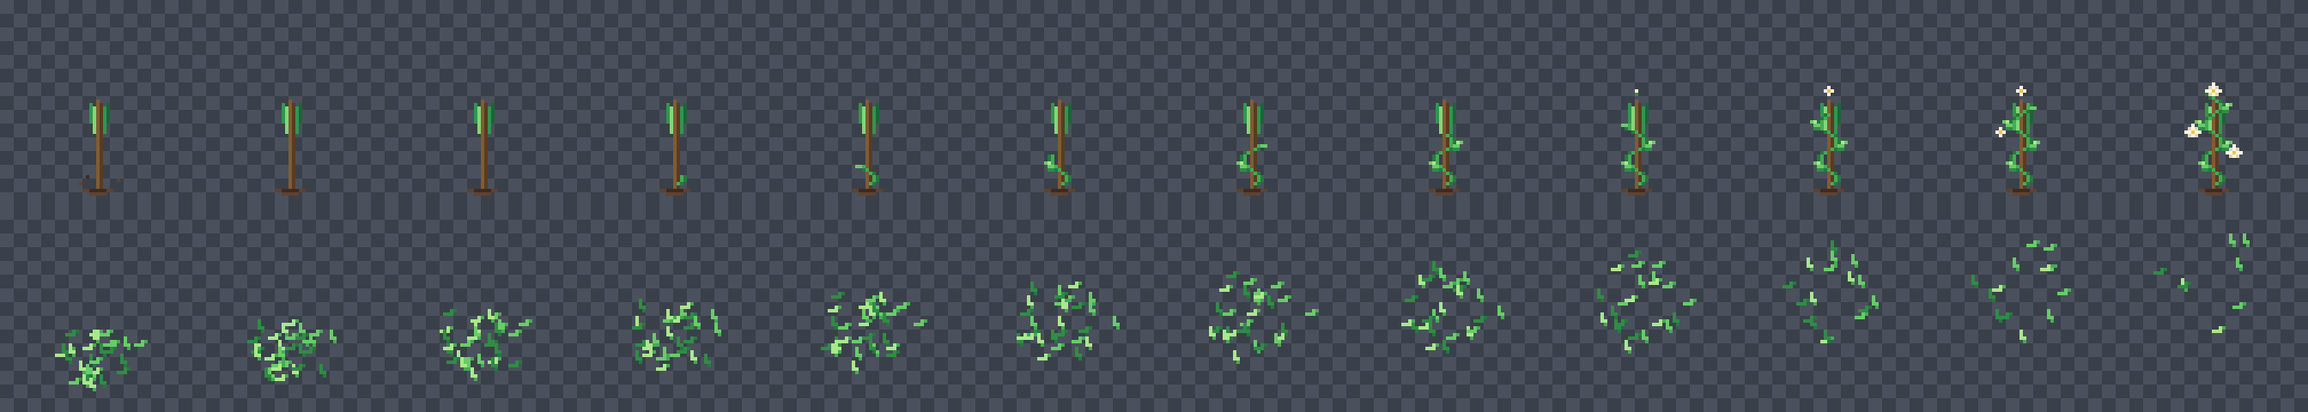
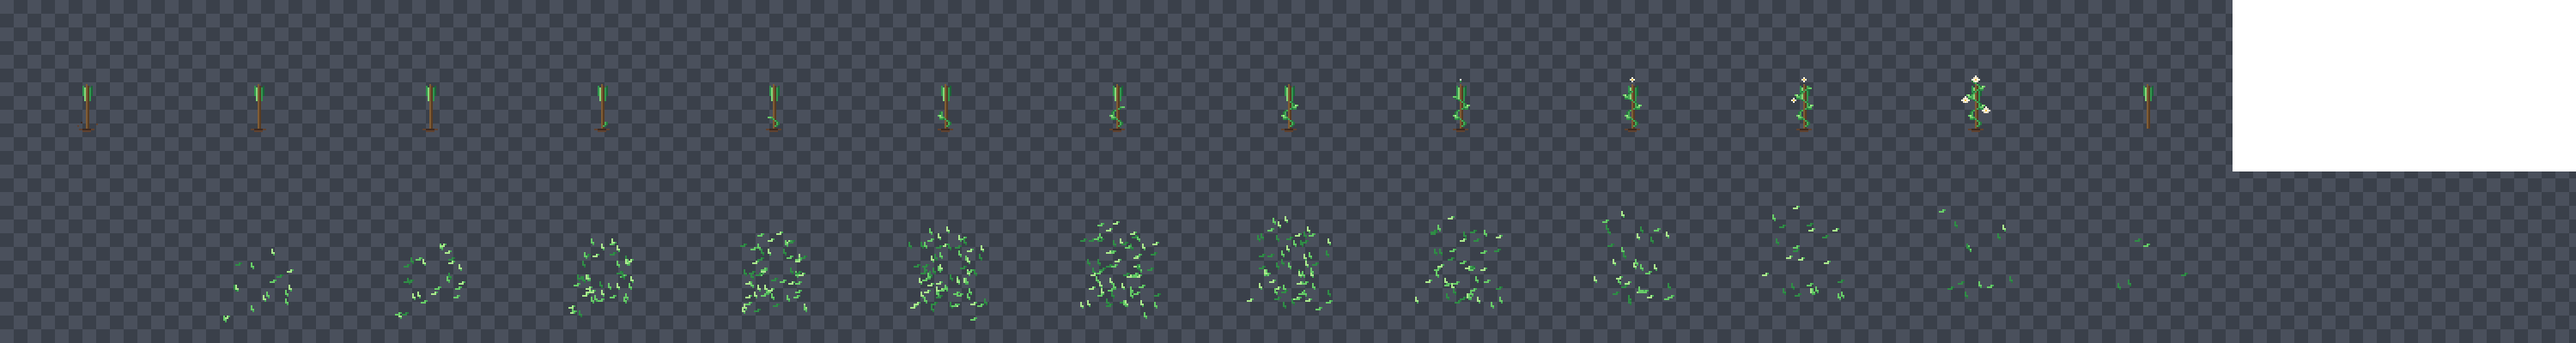
Mercy: the camera latches the boss's spot (his hitbox jumps when his animation changes) and smooths the player's; Leaf Ranger: the arrow is drawn and tossed in with a sound instead of appearing, and he dissolves into a cloud of leaves that is removed afterwards; tests

diff --git a/tools/fx/ranger_sprout.js b/tools/fx/ranger_sprout.js
@@ -1,9 +1,12 @@
-// The Leaf Ranger's mercy (tools/mercy/mercy.js, ranger()): he kneels, plants his last arrow in the ground and it flowers; then he is
-// gone in a drift of leaves. Two small objects, drawn in code in pixel art (each art pixel is PX screen pixels: the Ranger's own sprite
-// is drawn at 2x, so PX 2 keeps the pixels the same size as his):
-//   Ranger_Sprout (animation Grow, 12 frames): the arrow stands in the ground, a vine winds up the shaft with leaves, and it ends in
-//                 a cream blossom with a gold heart and two small ones. Origin: the ground line, middle. Not looping (holds its last frame).
-//   Ranger_Leaves (animation Drift, 12 frames): a handful of green leaves rise and sway away. Origin: the picture centre.
+// The Leaf Ranger's mercy (tools/mercy/mercy.js, ranger()): he kneels, tosses his last arrow into the ground in front of him and it
+// flowers; then he dissolves into a cloud of leaves. Two small objects, drawn in code in pixel art (each art pixel is PX screen pixels:
+// the Ranger's own sprite is drawn at 2x, so PX 2 keeps the pixels the same size as his):
+//   Ranger_Sprout  animation Grow (12 frames): the arrow stands in the ground, a vine winds up the shaft with leaves, and it ends in a
+//                  cream blossom with a gold heart and two small ones. Not looping (holds its last frame).
+//                  animation Fly (1 frame): the same arrow with no soil, tip down, for the toss.
+//                  Origin: the arrow's tip at the ground line, middle.
+//   Ranger_Leaves  animation Drift (15 frames): about 70 leaves appear over his body, over half a second, and rise and sway away; the last
+//                  frame is empty. Origin: the middle of the ground line under him.
 //
 //   node tools/fx/ranger_sprout.js --preview   writes docs/previews/ranger_sprout.png and ranger_sprout.gif (nothing else is touched)
 //   node tools/fx/ranger_sprout.js --install   writes assets/Leaf_Ranger/mercy/*.png and registers both objects in the Leaf Ranger
@@ -13,7 +16,7 @@ const path = require("path");
 const png = require("../bosses/png.js");
 const ROOT = path.join(__dirname, "..", "..");
 
-const PX = 2, DT = 0.1, FRAMES = 12;
+const PX = 2, DT = 0.1, FRAMES = 12, LFRAMES = 15;
 const C = {
   shaft: [128, 92, 52], shaftD: [88, 60, 34], fl: [48, 150, 78], flL: [132, 214, 120], flD: [28, 100, 56],
   stem: [70, 170, 86], stemD: [38, 120, 62], leaf: [104, 204, 104], leafD: [48, 140, 70], leafL: [170, 232, 140],
@@ -30,23 +33,26 @@ function toImage(cv) {
 
 // ---- The sprout: art canvas 36 x 60, the ground line at row GY, the shaft at column MX ----
 const SW = 36, SH = 60, GY = 54, MX = 18, TOP = 30;                 // the shaft stands from the ground (GY) up to TOP
-function sprout(n) {
+function sprout(n, fly) {
   const cv = canvas(SW, SH);
-  // The soil: a small dark crack and a few crumbs around the shaft.
-  for (let x = MX - 4; x <= MX + 4; x++) put(cv, x, GY + 1, Math.abs(x - MX) > 2 ? C.soil : C.soilD);
-  for (let x = MX - 2; x <= MX + 2; x++) put(cv, x, GY + 2, C.soil);
-  if (n === 0) { put(cv, MX - 5, GY - 1, C.soil); put(cv, MX + 6, GY - 2, C.soil); put(cv, MX - 3, GY - 3, C.soilD); }
+  if (!fly) {
+    // The soil: a small dark crack and a few crumbs around the shaft.
+    for (let x = MX - 4; x <= MX + 4; x++) put(cv, x, GY + 1, Math.abs(x - MX) > 2 ? C.soil : C.soilD);
+    for (let x = MX - 2; x <= MX + 2; x++) put(cv, x, GY + 2, C.soil);
+    if (n === 0) { put(cv, MX - 5, GY - 1, C.soil); put(cv, MX + 6, GY - 2, C.soil); put(cv, MX - 3, GY - 3, C.soilD); }
+  }
   // The arrow: a brown shaft with a two-tone edge, and green fletching at the top.
   for (let y = TOP; y <= GY; y++) { put(cv, MX, y, C.shaft); put(cv, MX + 1, y, C.shaftD); }
   for (let i = 0; i < 8; i++) { const y = TOP + i, w = i < 6 ? 2 : 1; for (let k = 1; k <= w; k++) { put(cv, MX - k, y - (k > 1 ? 1 : 0) + 1, k === 1 ? C.flL : C.fl); put(cv, MX + 1 + k, y - (k > 1 ? 1 : 0) + 1, k === 1 ? C.fl : C.flD); } }
   put(cv, MX, TOP - 1, C.shaft);
+  if (fly) return cv;
   // The growth: g goes 0 to 1 over frames 3 to 11. A vine winds up the shaft; leaves open where it passes; flowers last.
   const g = Math.max(0, Math.min(1, (n - 2) / (FRAMES - 3)));
   if (g > 0) {
     const reach = (GY - 1) - (GY - TOP + 2) * g;                      // the vine's tip, row
     for (let y = GY - 1; y >= reach; y--) { const x = MX + Math.round(Math.sin((GY - y) * 0.6) * 2.2); put(cv, x, y, C.stem); put(cv, x + (x > MX ? 1 : -1), y, C.stemD); }
     const LEAVES = [[48, -1], [42, 1], [36, -1], [31, 1]];
-    LEAVES.forEach(([ly, dir], i) => { if (reach > ly) return; const lx = MX + Math.round(Math.sin((GY - ly) * 0.6) * 2.2), k = Math.min(1, (ly - reach) / 3);
+    LEAVES.forEach(([ly, dir]) => { if (reach > ly) return; const lx = MX + Math.round(Math.sin((GY - ly) * 0.6) * 2.2), k = Math.min(1, (ly - reach) / 3);
       put(cv, lx + dir, ly, C.leaf); put(cv, lx + 2 * dir, ly, C.leaf); if (k > 0.4) { put(cv, lx + 2 * dir, ly - 1, C.leafL); put(cv, lx + 3 * dir, ly - 1, C.leaf); put(cv, lx + dir, ly + 1, C.leafD); put(cv, lx + 2 * dir, ly + 1, C.leafD); } });
   }
   // Flowers: a bud, then the blossom (five petals round a gold heart); two small blossoms lower down.
@@ -64,17 +70,21 @@ function sprout(n) {
   return cv;
 }
 
-// ---- The leaves: art canvas 56 x 56, they start at the middle low and rise and sway away ----
-const LW = 56, LH = 56;
+// ---- The leaves: art canvas 96 x 100, the ground line (and the middle under him) at row 88, column 48. The Ranger is about 44 art
+// pixels tall and 40 wide, so the leaves start spread over a body-sized box and rise and sway away from it. ----
+const LW = 96, LH = 100, LGY = 88;
 function rng(seed) { let s = seed >>> 0; return () => { s = (s * 1664525 + 1013904223) >>> 0; return s / 4294967296; }; }
-const LEAVES = (() => { const r = rng(7); return Array.from({ length: 30 }, (_, i) => ({ x0: 28 + (r() - 0.5) * 20, y0: 42 + (r() - 0.5) * 16, vx: (r() - 0.5) * 16, vy: -(7 + r() * 14), sw: 2 + r() * 3, ph: r() * 6.28, life: 0.5 + r() * 0.6, tone: i % 3 })); })();
+const LEAVES = (() => {
+  const r = rng(7);
+  return Array.from({ length: 70 }, (_, i) => ({ x0: 48 + (r() - 0.5) * 40, y0: LGY - 2 - r() * 44, ts: r() * 0.5, life: 0.45 + r() * 0.4, vx: (r() - 0.5) * 24 + 3, vy: -(5 + r() * 20), sw: 2 + r() * 3.5, ph: r() * 6.28, tone: i % 3 }));
+})();
 function drift(n) {
   const cv = canvas(LW, LH), t = n * DT;
   for (const l of LEAVES) {
-    if (t > l.life * FRAMES * DT * 0.95) continue;
-    const x = l.x0 + l.vx * t + Math.sin(l.ph + t * 5) * l.sw, y = l.y0 + l.vy * t * 1.4;
+    const tau = t - l.ts; if (tau < 0 || tau >= l.life) continue;
+    const x = l.x0 + l.vx * tau + Math.sin(l.ph + tau * 5) * l.sw, y = l.y0 + l.vy * tau * 1.3;
     const body = l.tone === 0 ? C.leaf : l.tone === 1 ? C.leafD : C.leafL, edge = l.tone === 1 ? C.stemD : C.stem, flip = (n + Math.round(l.ph)) % 2;
-    // a small leaf: three pixels and a tip, turning between two poses as it tumbles
+    // a small leaf: four pixels and a tip, turning between two poses as it tumbles
     if (flip) { put(cv, x - 1, y, body); put(cv, x, y, body); put(cv, x + 1, y, body); put(cv, x + 1, y - 1, body); put(cv, x + 2, y - 1, edge); }
     else { put(cv, x, y - 1, body); put(cv, x, y, body); put(cv, x, y + 1, body); put(cv, x + 1, y + 1, body); put(cv, x + 1, y + 2, edge); }
   }
@@ -82,27 +92,26 @@ function drift(n) {
 }
 
 const sproutFrames = () => Array.from({ length: FRAMES }, (_, n) => toImage(sprout(n)));
-const driftFrames = () => Array.from({ length: FRAMES }, (_, n) => toImage(drift(n)));
-const SPROUT = { w: SW * PX, h: SH * PX, origin: [SW * PX / 2, (GY + 1) * PX] }, LEAF = { w: LW * PX, h: LH * PX, origin: [LW * PX / 2, LH * PX / 2] };
-module.exports = { FRAMES, DT, PX, sproutFrames, driftFrames, SPROUT, LEAF };
+const flyFrame = () => toImage(sprout(0, true));
+const driftFrames = () => Array.from({ length: LFRAMES }, (_, n) => toImage(drift(n)));
+const SPROUT = { w: SW * PX, h: SH * PX, origin: [SW * PX / 2, (GY + 1) * PX] }, LEAF = { w: LW * PX, h: LH * PX, origin: [LW * PX / 2, (LGY + 1) * PX] };
+module.exports = { FRAMES, LFRAMES, DT, PX, sproutFrames, flyFrame, driftFrames, SPROUT, LEAF };
 
 if (require.main === module && process.argv[2] === "--preview") {
   const dir = path.join(ROOT, "docs", "previews"); fs.mkdirSync(dir, { recursive: true });
   const bg = (x, y) => (((x >> 4) + (y >> 4)) % 2 ? [58, 64, 74] : [74, 80, 92]);
-  const all = sproutFrames().map(f => ({ f, W: SPROUT.w, H: SPROUT.h })).concat(driftFrames().map(f => ({ f, W: LEAF.w, H: LEAF.h })));
-  const cw = 112, ch = 120, S = 2, cols = FRAMES, sheet = { w: cols * cw * S / 2 * 2, h: 2 * ch * S, data: Buffer.alloc(cols * cw * S * 2 * ch * S * 4) };
-  all.forEach((a, k) => { const row = Math.floor(k / cols), col = k % cols; const ox = col * cw * S, oy = row * ch * S;
-    for (let y = 0; y < ch * S; y++) for (let x = 0; x < cw * S; x++) { const sx = Math.floor(x / S) - Math.floor((cw - a.W) / 2), sy = Math.floor(y / S) - Math.floor((ch - a.H) / 2); let c = bg(x, y);
-      if (sx >= 0 && sy >= 0 && sx < a.W && sy < a.H) { const p = (sy * a.W + sx) * 4; if (a.f.data[p + 3]) c = [a.f.data[p], a.f.data[p + 1], a.f.data[p + 2]]; }
-      const q = ((oy + y) * sheet.w + ox + x) * 4; sheet.data[q] = c[0]; sheet.data[q + 1] = c[1]; sheet.data[q + 2] = c[2]; sheet.data[q + 3] = 255; } });
+  const cell = 200, S = 1;
+  const rows = [sproutFrames().concat([flyFrame()]).map(f => ({ f, W: SPROUT.w, H: SPROUT.h })), driftFrames().map(f => ({ f, W: LEAF.w, H: LEAF.h }))];
+  const cols = Math.max(rows[0].length, rows[1].length), sheet = { w: cols * cell * S, h: 2 * cell * S, data: Buffer.alloc(cols * cell * S * 2 * cell * S * 4) };
+  const paint = (img, a, ox, oy, scale) => { for (let y = 0; y < cell * scale; y++) for (let x = 0; x < cell * scale; x++) {
+    const sx = Math.floor(x / scale) - Math.floor((cell - a.W) / 2), sy = Math.floor(y / scale) - Math.floor((cell - a.H) / 2); let c = bg(x + ox, y + oy);
+    if (sx >= 0 && sy >= 0 && sx < a.W && sy < a.H) { const p = (sy * a.W + sx) * 4; if (a.f.data[p + 3]) c = [a.f.data[p], a.f.data[p + 1], a.f.data[p + 2]]; }
+    const q = ((oy + y) * img.w + ox + x) * 4; img.data[q] = c[0]; img.data[q + 1] = c[1]; img.data[q + 2] = c[2]; img.data[q + 3] = 255; } };
+  rows.forEach((row, r) => row.forEach((a, k) => paint(sheet, a, k * cell * S, r * cell * S, S)));
   png.encode(sheet, path.join(dir, "ranger_sprout.png"));
-  const gif = require("./gif.js"), G = 3, GW = 112 * G, GH = 120 * G, frames = [];
-  for (let k = 0; k < FRAMES * 2; k++) { const a = all[k % FRAMES]; const b = all[FRAMES + (k % FRAMES)]; const img = { w: GW * 2, h: GH, data: Buffer.alloc(GW * 2 * GH * 4) };
-    for (const [part, off] of [[a, 0], [b, GW]]) for (let y = 0; y < GH; y++) for (let x = 0; x < GW; x++) { const sx = Math.floor(x / G) - Math.floor((112 - part.W) / 2), sy = Math.floor(y / G) - Math.floor((120 - part.H) / 2); let c = bg(x + off, y);
-      if (sx >= 0 && sy >= 0 && sx < part.W && sy < part.H) { const p = (sy * part.W + sx) * 4; if (part.f.data[p + 3]) c = [part.f.data[p], part.f.data[p + 1], part.f.data[p + 2]]; }
-      const q = (y * img.w + off + x) * 4; img.data[q] = c[0]; img.data[q + 1] = c[1]; img.data[q + 2] = c[2]; img.data[q + 3] = 255; }
-    frames.push(img); }
-  fs.writeFileSync(path.join(dir, "ranger_sprout.gif"), gif.encode(frames, frames.map((_, i) => (i % FRAMES === FRAMES - 1 ? 40 : 10))));
+  const gif = require("./gif.js"), G = 2, frames = [];
+  for (let k = 0; k < LFRAMES; k++) { const img = { w: cell * G * 2, h: cell * G, data: Buffer.alloc(cell * G * 2 * cell * G * 4) }; paint(img, rows[0][Math.min(k, FRAMES - 1)], 0, 0, G); paint(img, rows[1][k], cell * G, 0, G); frames.push(img); }
+  fs.writeFileSync(path.join(dir, "ranger_sprout.gif"), gif.encode(frames, frames.map((_, i) => (i === LFRAMES - 1 ? 40 : 10))));
   console.log("wrote docs/previews/ranger_sprout.png and ranger_sprout.gif");
 }
 
@@ -110,15 +119,15 @@ if (require.main === module && process.argv[2] === "--install") {
   const L = require("../bosses/lib.js"), dir = "assets/Leaf_Ranger/mercy";
   fs.mkdirSync(path.join(ROOT, dir), { recursive: true });
   const write = (name, frames) => frames.map((img, i) => { const f = dir + "/" + name + "_" + (i + 1) + ".png"; png.encode(img, path.join(ROOT, f)); return f; });
-  const sFiles = write("Ranger_Sprout", sproutFrames()), lFiles = write("Ranger_Leaves", driftFrames());
-  const project = L.readJson("Soul Rush.json"); L.registerImages(project, sFiles.concat(lFiles)); L.writeJson("Soul Rush.json", project);
+  const sFiles = write("Ranger_Sprout", sproutFrames()), lFiles = write("Ranger_Leaves", driftFrames()), flyFile = write("Ranger_Arrow_Fly", [flyFrame()]);
+  const project = L.readJson("Soul Rush.json"); L.registerImages(project, sFiles.concat(lFiles, flyFile)); L.writeJson("Soul Rush.json", project);
   const scene = L.readJson("layouts/leaf_ranger_fight.json");
-  const add = (name, files, anim, size) => {
-    const obj = L.spriteObject(name, {}, [L.animation(anim, files.map(image => ({ image, origin: size.origin, mask: null })), DT, false)]);   // visual only
-    const i = scene.objects.findIndex(o => o.name === name); if (i >= 0) scene.objects[i] = obj; else scene.objects.push(obj);
-  };
-  add("Ranger_Sprout", sFiles, "Grow", SPROUT); add("Ranger_Leaves", lFiles, "Drift", LEAF);
+  const frames = (files, size) => files.map(image => ({ image, origin: size.origin, mask: null }));
+  const put = (name, anims) => { const obj = L.spriteObject(name, {}, anims);   // visual only
+    const i = scene.objects.findIndex(o => o.name === name); if (i >= 0) scene.objects[i] = obj; else scene.objects.push(obj); };
+  put("Ranger_Sprout", [L.animation("Grow", frames(sFiles, SPROUT), DT, false), L.animation("Fly", frames(flyFile, SPROUT), DT, false)]);
+  put("Ranger_Leaves", [L.animation("Drift", frames(lFiles, LEAF), DT, false)]);
   L.addToFolder(scene.objectsFolderStructure, "Mercy", ["Ranger_Sprout", "Ranger_Leaves"]);
   L.writeJson("layouts/leaf_ranger_fight.json", scene);
-  console.log("Ranger_Sprout and Ranger_Leaves registered in Leaf_Ranger_Fight (" + sFiles.length + " + " + lFiles.length + " frames)");
+  console.log("Ranger_Sprout (Grow " + sFiles.length + " frames, Fly 1) and Ranger_Leaves (Drift " + lFiles.length + " frames) registered in Leaf_Ranger_Fight");
 }

diff --git a/tools/mercy/mercy.js b/tools/mercy/mercy.js
@@ -101,26 +101,44 @@ if (!gdjs.__soulRushMercy) {
     c.leave();
   }
   function* ranger(c) {
-    // The Leaf Ranger kneels (his stun pose). He plants his last arrow in the ground in front of him; it puts out a vine, leaves and blossoms
-    // (Ranger_Sprout) while he rises. The player nods to him, and he is gone in a drift of leaves (Ranger_Leaves). The sprout stays.
-    const b = c.boss, p = c.player, pins = new Map();
+    // The Leaf Ranger kneels (his stun pose). He draws his last arrow and tosses it into the ground in front of him (Ranger_Sprout, Fly,
+    // then Grow): a vine, leaves and blossoms grow up it while he rises. The player nods to him, and he dissolves into a cloud of leaves
+    // (Ranger_Leaves) and is gone. The sprout stays.
+    const b = c.boss, p = c.player, pins = new Map(), sm = c.scene.getGame().getSoundManager();
     const show = (o, anim, f) => { if (o.getAnimationName() !== anim) o.setAnimationName(anim); o.pauseAnimation(); o.setAnimationFrame(Math.max(0, Math.min(f, (o.getAnimationFrameCount ? o.getAnimationFrameCount() : f + 1) - 1))); };
     const pin = (o, anim, f) => { pins.set(o, [anim, f]); show(o, anim, f); };            // held every frame, so his own script cannot change the pose
     const wait = function* (s) { while (s > 0) { for (const [o, [an, f]] of pins) show(o, an, f); yield; s -= c.dt; } };
+    const sound = (f, v) => { try { sm.playSound(f, false, v, 1); } catch (e) { /* no sound */ } };
     const dir = p.getCenterXInScene() < b.getCenterXInScene() ? -1 : 1;                   // toward the player
     b.flipX(dir < 0); p.flipX(dir > 0);                                                    // his sprites face right
-    pin(b, "Ranger_kneel", 7); yield* wait(0.9);
-    const bb = body(b), sx = bb.x + dir * 80, ground = bb.bottom;
-    const sp = c.scene.createObject("Ranger_Sprout"); if (sp) { sp.setPosition(sx, ground); if (sp.setZOrder && b.getZOrder) sp.setZOrder(b.getZOrder() + 1); }
-    const rise = [7, 7, 7, 6, 5, 4, 3, 2, 1, 0, 0, 0];                                   // he stays down while the arrow lands, then stands as it grows
-    for (let f = 0; f < rise.length; f++) { if (sp) show(sp, "Grow", f); pin(b, "Ranger_kneel", rise[f]); yield* wait(0.12); }
-    if (sp) pins.set(sp, ["Grow", rise.length - 1]);
+    pin(b, "Ranger_kneel", 7); yield* wait(0.6);
+    // The toss: the arrow leaves his hand at chest height, rises in a short arc over the spot in front of him and drops tip first into the ground.
+    const bb = body(b), sx = bb.x + dir * 80, ground = bb.bottom, hx = bb.x + dir * 14, hy = bb.top + (bb.bottom - bb.top) * 0.35;
+    const ar = c.scene.createObject("Ranger_Sprout");
+    if (ar) { if (ar.setZOrder && b.getZOrder) ar.setZOrder(b.getZOrder() + 1); show(ar, "Fly", 0); ar.setPosition(hx, hy + 70); }
+    sound("assets/Sfx/arrows/draw_1.wav", 45);
+    const FLY = 0.55;
+    for (let t = 0; t < FLY; t += c.dt) {
+      const k = Math.min(1, t / FLY), up = k < 0.45 ? k / 0.45 : 1, drop = k < 0.45 ? 0 : (k - 0.45) / 0.55;
+      // x glides over to the spot; y: the tip rises from his hand to a peak 60 px above the spot, then falls to the ground
+      const x = hx + (sx - hx) * Math.min(1, k / 0.6), peak = Math.min(hy + 70, ground) - 90, y = k < 0.45 ? (hy + 70) + (peak - (hy + 70)) * (1 - Math.pow(1 - up, 2)) : peak + (ground - peak) * drop * drop;
+      if (ar) ar.setPosition(x, y);
+      yield* wait(c.dt);
+    }
+    if (ar) { ar.setPosition(sx, ground); }
+    sound("assets/Sfx/arrows/land_1.wav", 60);
+    const rise = [7, 7, 7, 6, 5, 4, 3, 2, 1, 0, 0, 0];                                   // he stays down while the arrow takes root, then stands as it grows
+    for (let f = 0; f < rise.length; f++) { if (ar) show(ar, "Grow", f); pin(b, "Ranger_kneel", rise[f]); yield* wait(0.12); }
+    if (ar) pins.set(ar, ["Grow", rise.length - 1]);
     yield* wait(0.6);
     for (let f = 0; f < 8; f++) { pin(p, "Player_Nod", f); yield* wait(0.15); }           // the player nods to him
     pins.delete(p); p.setAnimationName("Player_Idle"); p.playAnimation();
     yield* wait(0.7);
-    const lv = c.scene.createObject("Ranger_Leaves"), lb = body(b); if (lv) { lv.setPosition(lb.x, (lb.top + lb.bottom) / 2); if (lv.setZOrder && b.getZOrder) lv.setZOrder(b.getZOrder() + 2); }
-    for (let f = 0; f < 12; f++) { if (lv) show(lv, "Drift", f); b.setOpacity(Math.max(0, Math.round(255 * (1 - f / 8)))); yield* wait(0.1); }   // he fades into the leaves
+    // He dissolves: a cloud of leaves over his body (the picture's origin is the middle of the ground line under him) while he fades.
+    const lv = c.scene.createObject("Ranger_Leaves"), lb = body(b);
+    if (lv) { lv.setPosition(lb.x, lb.bottom + 2); if (lv.setZOrder && b.getZOrder) lv.setZOrder(b.getZOrder() + 2); }
+    for (let f = 0; f < 15; f++) { if (lv) show(lv, "Drift", f); b.setOpacity(Math.max(0, Math.round(255 * (1 - f / 5)))); yield* wait(0.1); }
+    if (lv) lv.deleteFromScene(c.scene);                                                   // nothing of the cloud is left behind
     c.leave();
   }
   function* gunslinger(c) {
@@ -206,7 +224,11 @@ if (!gdjs.__soulRushMercy) {
     }
     // Running. Keep the boss where it is (still stunned, unhurtable, its AI paused) and hide the deathblow orb, then step the farewell.
     const orb = one(scene, "Deathblow_Prompt"); if (orb) orb.hide(true);
-    const pb = body(player); st.aim = { x: (body(boss).x + pb.x) / 2, bottom: pb.bottom };   // remembered: the camera must stay put after the boss is gone
+    // The camera's target: the boss's spot is LATCHED when the farewell starts (his hitbox jumps when his animation changes: the petal
+    // frames are another size) and the player's is smoothed (he runs up in the Bladekeeper's salute). Remembered: the camera must stay
+    // put after the boss is gone.
+    const pb = body(player), lk = st.lock || (st.lock = { bossX: body(boss).x, bottom: pb.bottom, px: pb.x });
+    lk.px += (pb.x - lk.px) * Math.min(1, dt * 5); st.aim = { x: (lk.bossX + lk.px) / 2, bottom: lk.bottom };
     cameraStep(st, scene, st.aim.x, st.aim.bottom, dt);
     if (S.kit) { if (!boss) st.phase = "done"; return; }
     if (S.hold) S.hold(bv);

diff --git a/tools/test/bosses.test.js b/tools/test/bosses.test.js
@@ -603,6 +603,20 @@ for (const [label, scene, boss, kit] of [["Bladekeeper", "Bladekeeper_Fight", "B
   }]);
 }
 
+tests.push(["Mercy camera: it does not jump when the boss's hitbox jumps (his petal frames are another size), and the player's own move is followed smoothly", () => {
+  const bad = [], r = mercyRun("Samurai_Fight", "Samurai_NPC", null, kneelLast);
+  try {
+    for (let i = 0; i < 70; i++) r.frame(true);
+    for (let i = 0; i < 60 * 3; i++) r.frame(false);
+    const l = r.sc.getLayer(""), before = l.cx;
+    r.boss.x += 160; r.frame(false);                                           // the boss's hitbox centre jumps 160 px in one frame
+    if (Math.abs(l.cx - before) > 3) bad.push("the camera jumped " + Math.round(l.cx - before) + " px when the boss's hitbox moved (it must stay on the spot latched at the start)");
+    const b2 = l.cx; r.player.x += 80; r.frame(false);                         // the player steps 80 px: the camera follows, but only a little per frame
+    if (Math.abs(l.cx - b2) > 12) bad.push("the camera moved " + Math.round(l.cx - b2) + " px in one frame for a player step (it should glide)");
+  } finally { r.restore(); }
+  return bad;
+}]);
+
 tests.push(["Mercy camera (the hub gates' logic): the zoomed view never shows past the screen the fight started with, even when the player stands at the very bottom or at an edge", () => {
   const bad = [];
   for (const [why, setup] of [["at the floor", (bv, p, boss) => { kneelLast(bv, p); p.y = 660; boss.y = 660; }], ["at the left edge", (bv, p, boss) => { kneelLast(bv, p); p.x = 30; boss.x = 120; }], ["at the right edge", (bv, p, boss) => { kneelLast(bv, p); p.x = 1250; boss.x = 1160; }]]) {
@@ -647,6 +661,9 @@ tests.push(["Mercy (Leaf Ranger): he kneels, rises as his arrow is planted in th
     for (let i = 0; i < 60 * 40 && !r.boss.deleted; i++) r.frame(false);
     if (!r.sc.created.Ranger_Sprout) bad.push("the arrow sprout was never planted");
     if (!r.sc.created.Ranger_Leaves) bad.push("the drift of leaves never appeared");
+    if (r.sc.objs.some(o => o.name === "Ranger_Leaves")) bad.push("the leaves are still in the scene after he is gone (they must be removed)");
+    const arrow = r.sc.objs.find(o => o.name === "Ranger_Sprout"); if (arrow && !arrow.animLog.has("Fly")) bad.push("the arrow should be seen flying in (Ranger_Sprout, Fly) before it grows");
+    if (!r.sc.sounds.some(f => /arrows\/land_1/.test(f))) bad.push("the arrow should make a sound when it lands");
     if (!r.player.animLog.has("Player_Nod")) bad.push("the player should nod to him (Player_Nod)");
     if (!r.boss.animLog.has("Ranger_kneel")) bad.push("he should kneel and rise (Ranger_kneel)");
     const sp = r.sc.objs.find(o => o.name === "Ranger_Sprout"); if (!sp) bad.push("the sprout should stay in the arena after he is gone"); else if (sp.frame !== 11) bad.push("the sprout should end fully grown (frame 11, it is " + sp.frame + ")");
